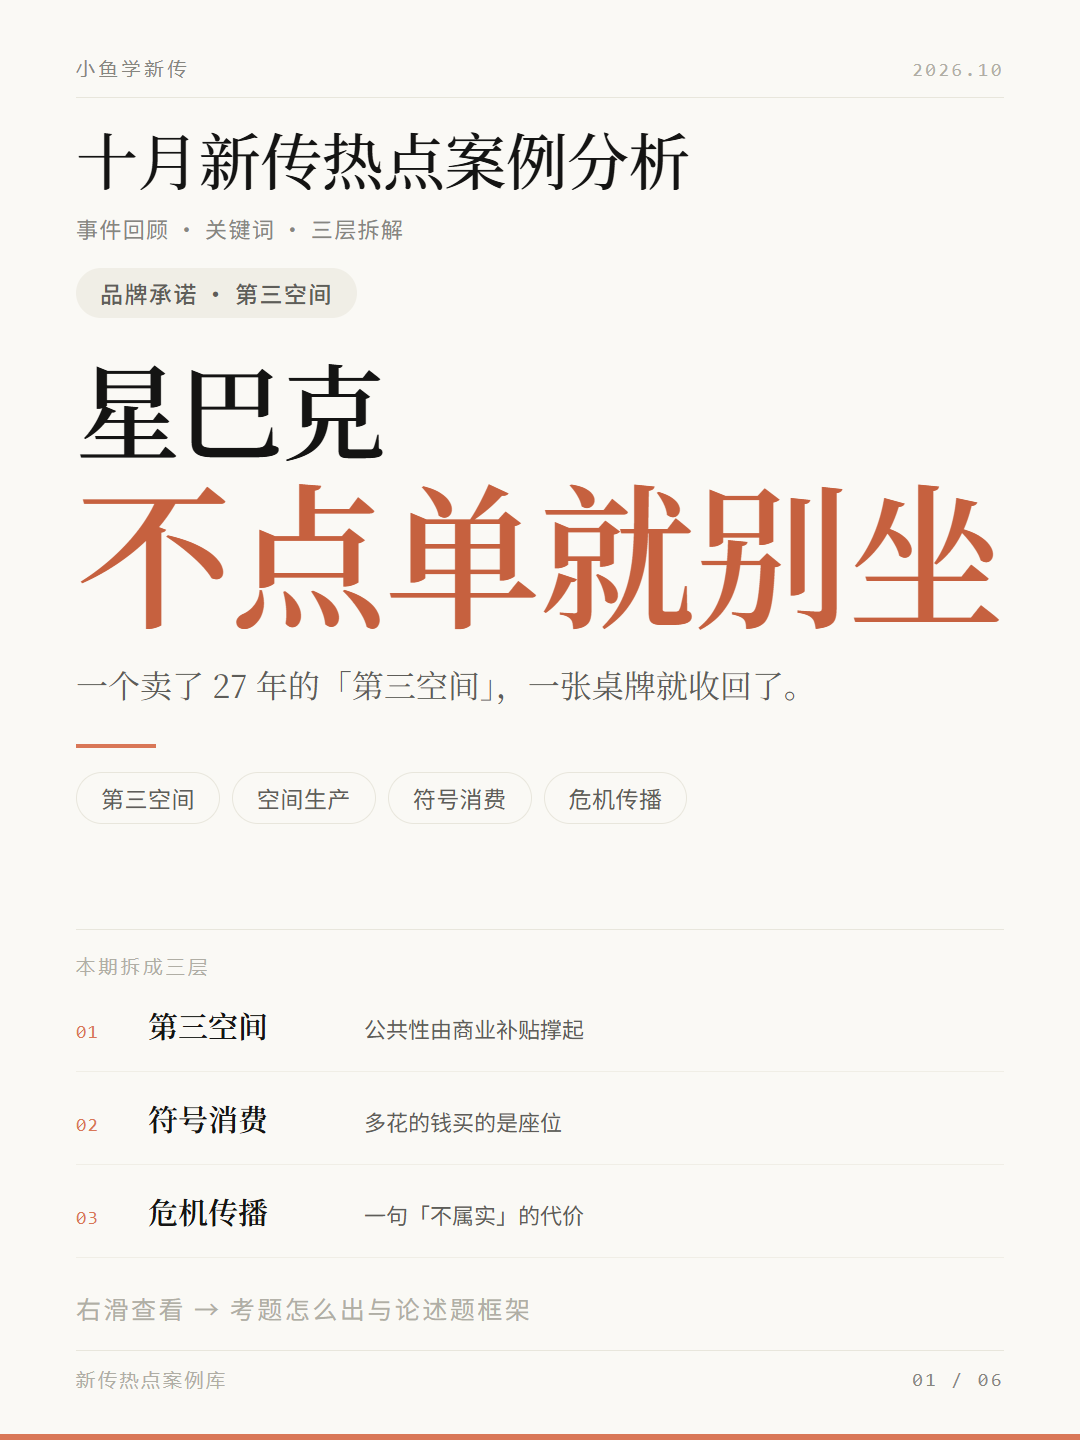
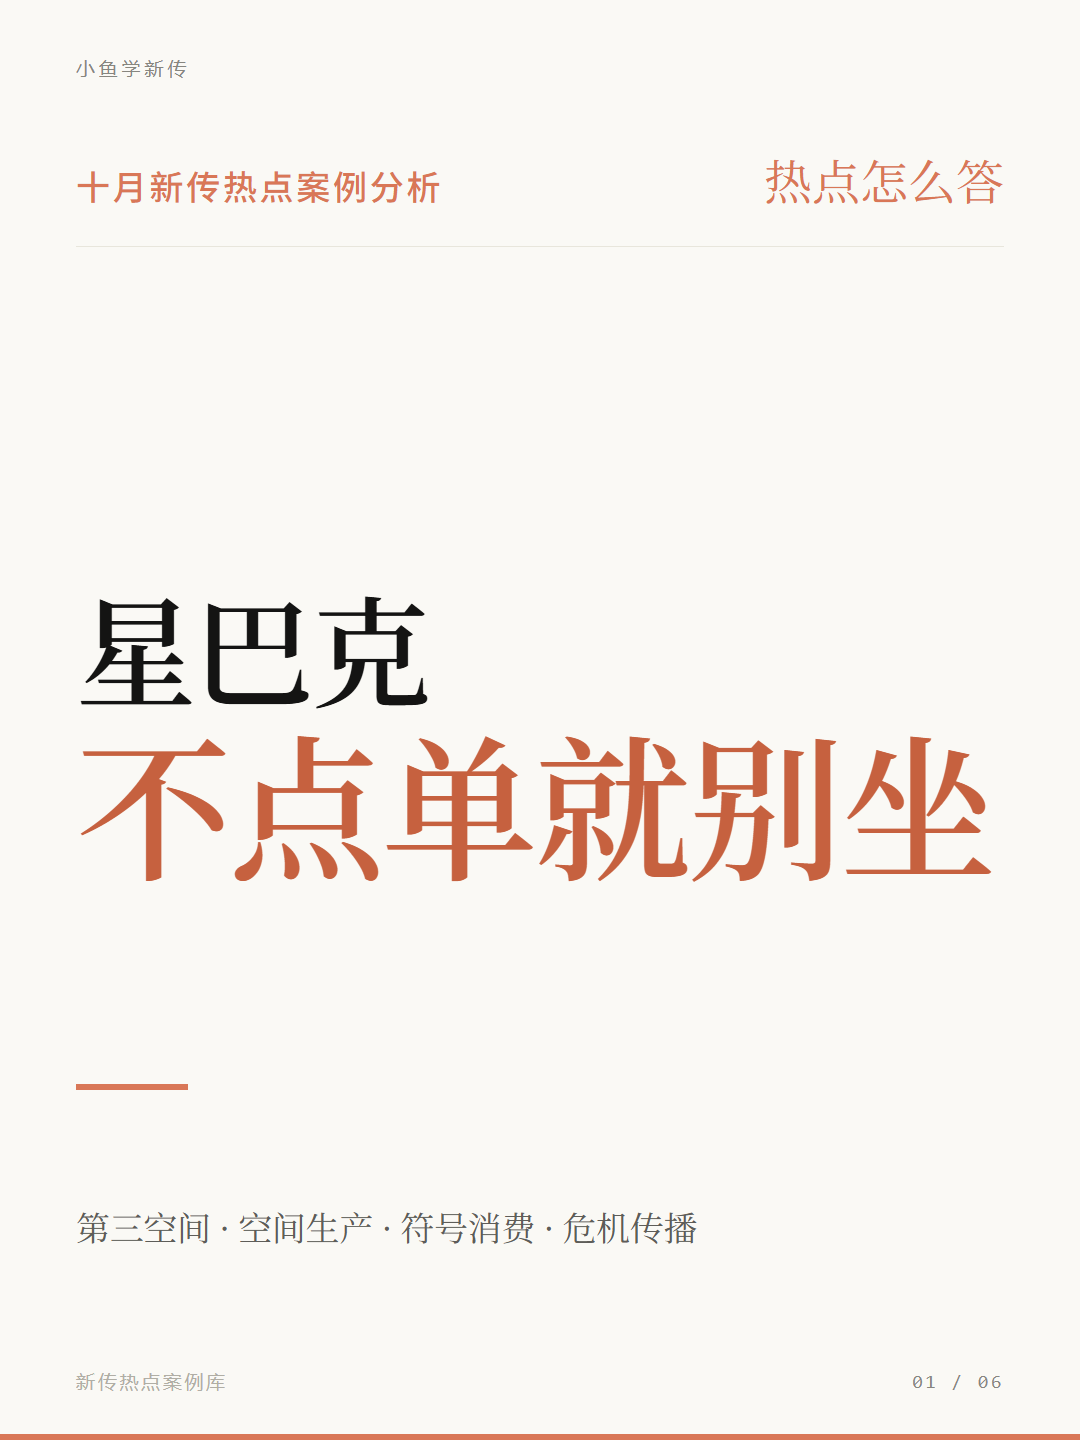
fix(图卡): 第 35 期封面改用名词解释 v13 版式，去掉三层索引
- 结构：刊头 → 系列行 → 发丝线 → 巨字左齐两行 → 短横 → 灰副题 → 页脚
- 拿掉 pill / 栏目副行 / 导语 / chips / 三层索引 / hint，封面只留四种信息
- 标题左齐（与发丝线、页脚共用 x=76 一轴），正文 120 / 钩子 156
- README 记为封面定稿版式，DESIGN.md 升 v2.13

diff --git a/kb/wiki/log.md b/kb/wiki/log.md
@@ -1194,3 +1194,23 @@ PDF 用 venv 内 pypdf 6.16.2 提取，落盘 `_p14_j.txt`（第十四讲）与 
 - `images/35-星巴克消费入座-01~06.png` 全量替换（6 张，1080×1440）。
 - `README.md`：更正「栏目字号大于事件标题」这条与成品不符的旧写法（实际栏目 62 < 事件 104—156），新增「字体体系（编号 35 定稿）」段。
 - 旧封面备份留在工作目录 `_archive/cards-封面v3-黑体版.html`；设计规范用户级 skill `xiaohuang-hotspot-case/DESIGN.md` 升 v2.12。
+
+## [2026-10-22] fix | 第 35 期封面改回「名词解释」v13 版式（三层索引作废）
+
+**用户反馈**：「封面稍微保留主要的，本期拆成三层可以不要，保留主要的，标题左侧居中吗，参考之前道德名词解释的布局试试」——三点：去掉索引块、只留主信息、照 100 讲封面排版。
+
+**1. 结构与 v13 逐行对齐**
+刊头「小鱼学新传」（等宽 19 灰）→ 系列行（左「十月新传热点案例分析」珊瑚无衬线 34/.08em；右「热点怎么答」珊瑚衬线 48）→ 通栏发丝线 → 巨字左齐两行（星巴克 120 / 不点单就别坐 156，均衬线 600，−.02em，钩子上距 336）→ 珊瑚短横 112×6（上距 200）→ 灰副题 34（第三空间 · 空间生产 · 符号消费 · 危机传播，上距 112）→ 页脚。
+
+**2. 拿掉的**
+pill「品牌承诺 · 第三空间」、栏目副行「事件回顾 · 关键词 · 三层拆解」、导语、chips、三层索引、hint「右滑查看」。封面从此只剩四种信息：系列 / 事件 / 关键词 / 页码。
+
+**3. 与 v13 的两处差异（有意保留）**
+- 标题两行（3 字主体 + 6 字钩子），v13 是单词条单行；字号仍按 `928 ÷ 字数 ÷ 0.99` 折算。
+- 钩子用珊瑚色，v13 标题全墨色——保留珊瑚是为了信息流里的颜色钩子，与 12—34 期的「珊瑚只用在标题/短横」一致。
+
+**4. 为什么标题左齐**
+v13 是左齐不是居中（用户问「标题左侧居中吗」，答案为左齐）。左齐的理由写进 DESIGN：巨字左齐与发丝线、页脚共用 x=76 一条轴，居中会让封面出现第二条轴。
+
+**5. 同步**
+`images/35-星巴克消费入座-01.png` 替换（02—06 未变，md5 一致）；README 新增「封面版式（定稿）」段并注明索引版作废；设计规范 DESIGN.md 升 v2.13。

diff --git a/kb/新传热点事件解读/README.md b/kb/新传热点事件解读/README.md
@@ -67,4 +67,5 @@
 > ② **等宽**（`ui-monospace`）——刊头、页码、章节编号（01/02/03）、日期、分值（5 分/30 分）、栏目标签（官方口径/答题提示）、表格左列；
 > ③ **黑体**（思源黑体 400）——正文、chips、提示块。
 > 版心统一 1080×1440、内边距 58/76/46，六页共用底边 6px 珊瑚收条。封面主钩子按 `928 ÷ 字数 ÷ 0.99` 定档（6 字 = 156px）以右端齐平版心；内页底部余量控制在 40—160px。
+> **封面版式（2026-10-22 定稿，照「名词解释 100 讲」v13）**：刊头 → 系列行（左「<月份>新传热点案例分析」珊瑚无衬线 34 / 右「热点怎么答」珊瑚衬线 48）→ 通栏发丝线 → 巨字左齐两行（事件主体 120 / 钩子 156，钩子上距发丝线 336）→ 珊瑚短横 112×6（上距 200）→ 灰副题 34（四个关键词，· 分隔，上距 112）→ 页脚。**封面不放任何块级信息**——chips、目录索引、pill 一律不上封面，留白 ≥40%。用户 2026-10-22 明确要求「保留主要的」，三层索引版作废。
 > **教训**：系列图卡的一致性靠「信息行顺序 + 字体族」锁死，单张调好看不等于系列成立——第 35 期首版封面走黑体 900、删掉栏目副行，单看更"炸"，放进 12—34 期里是断代。
